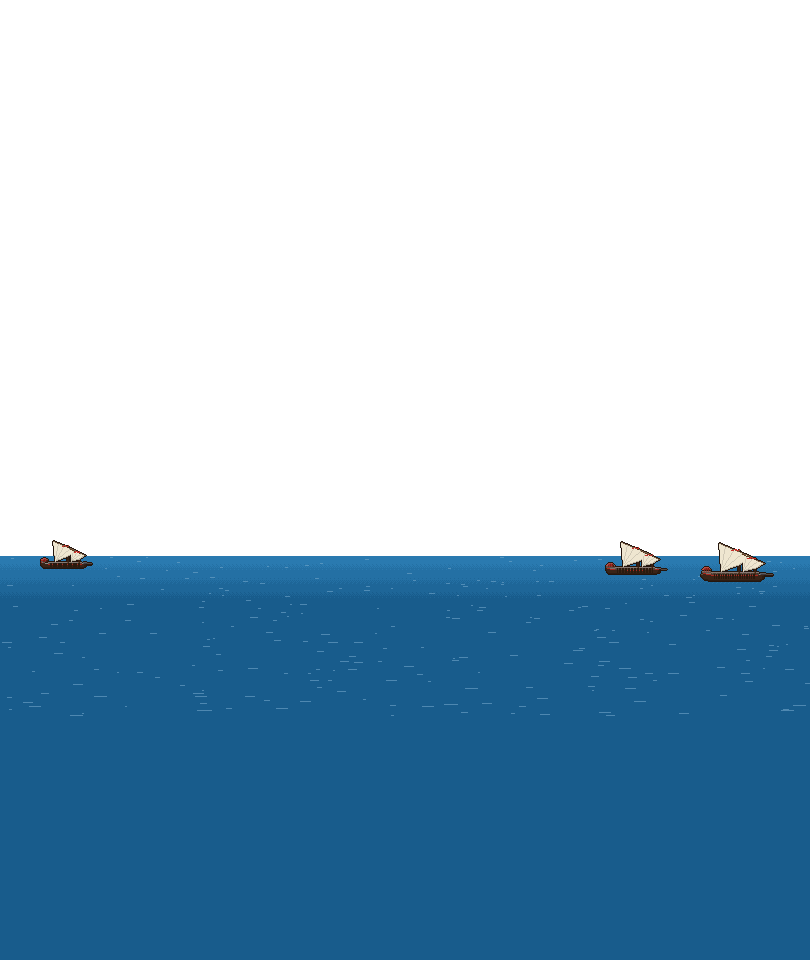
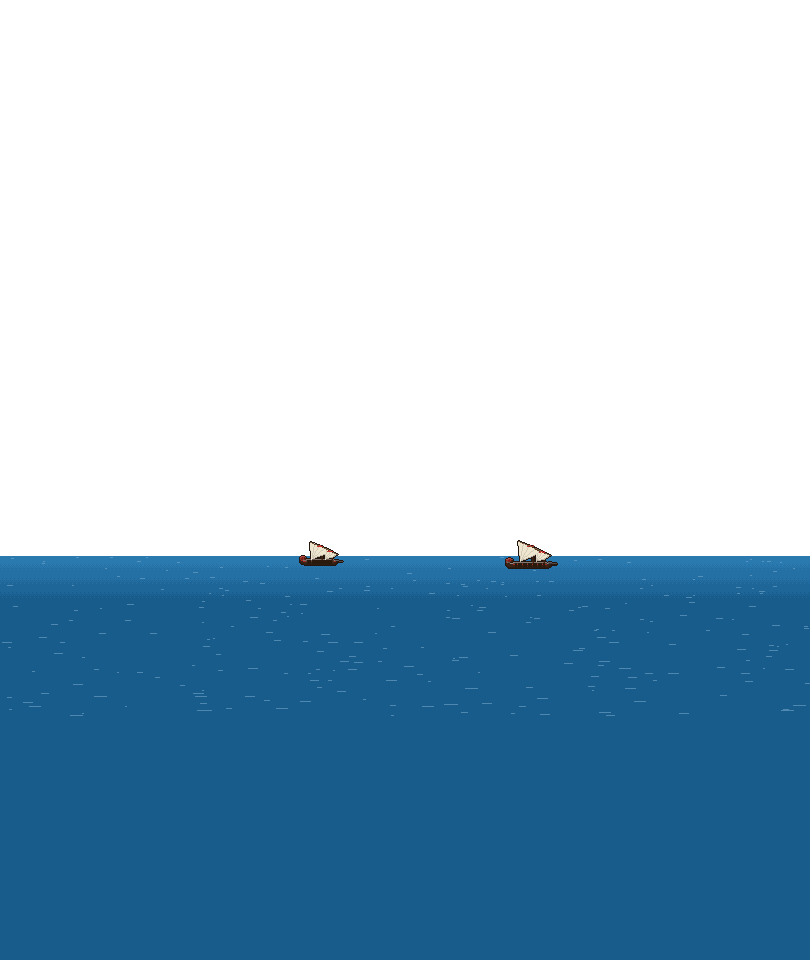
Gece vardiyası: ara çıktılar
Claude-Session: https://claude.ai/code/session_01XLxygqyFFVQPS5MtEC993Y

diff --git a/video/piksel/toulon_1543.py b/video/piksel/toulon_1543.py
@@ -1104,8 +1104,8 @@ def sahne451():
 def sahne452():
     _gok(452, GUN, [(100, 402, 22), (420, 406, 20)], BULUT_GUN)
     _uzak_kiyi(452, None, ("#8aa0b4", "#7c92a8"), ("#8aa0b4", "#7c92a8", "#6e84a0"), D_YAZ, 546, tepe_y=538, kara_kalin=3)
-    _orta_deniz(452, 556, D_YAZ, ekle=lambda img: [kadirga(img, PAY + x, 566 + k * 6, 0.5 + k * 0.1, 1, 0.0, mod="acik",
-                                                          kurek=True, kurekci=False, **OSMANLI) for k, x in enumerate((-70, 500, 600))])
+    _orta_deniz(452, 556, D_YAZ, ekle=lambda img: [kadirga(img, PAY + x, su, s_, 1, 0.0, mod="acik", kurek=True, kurekci=False,
+                                                          **OSMANLI) for x, su, s_ in ((185, 563, 0.42), (395, 566, 0.5))])
     _bos_on(452)
     b = P(452)
     _spr(452, _gemi_sp(452, 0, [(198, b["h"] - 14, 1.7, 1, "acik", OSMANLI, dict(fener=1))], D_YAZ, 556))
@@ -1116,7 +1116,7 @@ def sahne452():
 # ==========================================================================
 def sahne453():
     ic_mekan(453, duvar=("#2a3458", "#34406a", "#425080"), kemer="#1a2038", cini="#c8a040",
-             pencere=("#6a8ab8", "#c8dcf0"), zemin_renk=("#6a5a4a", "#5a4c3e", "#4a3e32"), isik="#f8d080", hali=True)
+             pencere=("#6a8ab8", "#7c9cc8"), zemin_renk=("#6a5a4a", "#5a4c3e", "#4a3e32"), isik="#f8d080", hali=True)
     K = K_(453)
 
     def kare(t, z, i):
@@ -1379,7 +1379,7 @@ def sahne474():
 # ==========================================================================
 def sahne463():
     ic_mekan(463, duvar=("#4a3a2a", "#5a4632", "#6a523c"), kemer="#2a1e14", cini="#8a2a2a",
-             pencere=("#8aa0b8", "#f0e8d0"), zemin_renk=("#6a5a48", "#5a4c3c", "#4c4032"), isik="#f8c060", hali=False)
+             pencere=("#8aa0b8", "#9ab0c4"), zemin_renk=("#6a5a48", "#5a4c3c", "#4c4032"), isik="#f8c060", hali=False)
     K = K_(463)
 
     def kare(t, z, i):

diff --git a/teslimler/gece/ara/piri-reis/6-kalite-gorsel.md b/teslimler/gece/ara/piri-reis/6-kalite-gorsel.md
@@ -1,0 +1,66 @@
+# Haritayı Çizen Adam: görsel kalite kontrol
+
+**İş:** Piri Reis'in haritaları ve idamı (1513-1554), gece vardiyası 6/10 · **Hazırlayan:** 🔴 SKONSTART Kalite Kontrol (görsel)
+**Girdiler:** `5-grafik.md` (sahne planı, 38 sahne), `4-kalite-metin.md` (kartlar). Render kareleri `scratchpad/qc-piri-reis/`: 12 düzenli kare (kare-020s … kare-244s), kontak sayfası ve kare düşmeyen kritik sahnelerden benim render ettiğim 8 ek kare. Kareler `sahne_zaman.py` zamanlarıyla, sahnenin ortasından alındı:
+
+| Ek kare | Sahne | Kare no |
+|---|---|---|
+| ek-kapak.png | kapak | 60 |
+| ek-345-maskat.png | 345 Maskat kalesi | 6326 |
+| ek-346-hurmuz.png | 346 Hürmüz | 6691 |
+| ek-350-ucgemi.png | 350 üç gemiyle dönüş, donanma geride | 7806 |
+| ek-351-ferman.png | 351 Kahire, fermanı okuyan çavuş | 8175 |
+| ek-356-firtina.png | 356 Seydi Ali'nin fırtınası | 10016 |
+| ek-364-mektup.png | 364 1960, Ohlmeyer'in mektubu | 12871 |
+| ek-349-kapanis.png | kapanış, 349 Basra'da kalan donanma | 15859 |
+
+Hapgood sahnesi (366) ayrı render edilmedi. 8 karelik sınır doldu; sahne kare-224s'teki geçişte görünüyor.
+
+## Karar: UYGUN DEĞİL (revize_birimi: grafiker)
+
+Fizik ve yazı tarafı temiz:
+- 20 karenin hiçbirinde havada duran nesne yok.
+- Bütün kartlar okunuyor.
+- Türkçe harfler doğru (ğ, ı, İ, ş, ç, ö, ü ve "şikâyet"teki â).
+- Kapak temiz.
+
+Tek zorunlu düzeltme 1929 sahnesindeki dönem hatası. Sahibin 03:40 notu açık: "tek bir hatalı kare bile kabul değil". Bu kare yazının "1929" dediği anda yanlış bir dönem silüeti gösteriyor.
+
+## Zorunlu düzeltmeler (kare | yer | sorun | düzeltme)
+
+| Kare | Yer | Sorun | Düzeltme |
+|---|---|---|---|
+| kare-183s.png (sahne 359; kod gereği 360 da) | Kadrajın sol yarısı, iki figürün başı (y ≈ 750-860) | **Koordinatörün sorusuna cevabım: şapka *fikri* doğru, *çizimi* yanlış.** 1925 Şapka Kanunu'ndan sonra 1929 İstanbul'unda Halil Edhem'in ve bir Alman bilim insanının fötr şapka giymesi dönemine uygun. Ama çizilen şey fötr değil. Uzun, düz tepeli silindirik bir taç ve çok geniş, dümdüz bir kenar var. Bu silüet 17. yüzyıl püriten şapkası ya da Hasidik/Amiş şapkası gibi okunuyor, 1920'lerin fötrü gibi değil. İzleyici "neden bu şapka" diye yorum yazar. `sapka` başlığı Çelebi işindeki 1720 Fransızları için çizilmişti; o dönemde doğru, burada yanlış. | `piri_reis.py` içinde 1929-1960 kişileri için ayrı bir **fötr** başlığı çiz: alçak, yuvarlatılmış bir taç, tepede ortadan çökük bir çizgi ve tutam, koyu bir şapka bandı, daha dar ve hafif kıvrık bir kenar. Kenar genişliği başın yaklaşık 1,3 katı olsun, şimdiki gibi 2 katı değil. Kullanılacak yerler: `EDHEM` (tanım 56. satır; 359 ve 360'ta kullanılıyor) ve 359'daki ikinci figür (1587. satır). Ya bu fötrü ciz.py'ye yeni bir `bas` seçeneği olarak ekle ya da piri_reis.py'de yerel bir başlık olarak yaz. Çelebi ve Cem Sultan dosyalarındaki `sapka`ya dokunma. Sonra 359'u ve 360'ı yeniden üret; `taban_denetimi` ile yazı bandı denetimini tekrar çalıştır (fötr daha alçak olduğu için bant sorunu çıkmaz). |
+
+## İyileştirme önerileri
+
+Bunlar reddetme nedeni değil. Grafiker 359'a zaten döneceği için 1-3'ün aynı turda yapılmasını öneririm.
+
+1. **kare-183s, Babüsselam (koordinatörün ikinci sorusu: "Avrupa şatosu gibi mi?").**
+   - Kısmen öyle. Çizimin ana hatları doğru: Babüsselam'ın gerçekte de iki sekizgen, külahlı kulesi ve mazgallı yan duvarları var. Bu kapı zaten "şatoya benzer" diye bilinir. Çizimde sorun, yapının bembeyaz sıva, küçük ve süssüz olması; bu yüzden bir masal şatosu gibi okunuyor.
+   - Kapı kemeri yaklaşık 95 px, kuleler adamların çenesinin altında kalıyor. "İki kişi içeri yürür" anı için kapı fazla oyuncak gibi.
+   - Öneri: kapının üstüne geniş, koyu ve ahşap altlı Osmanlı saçağını belirgin çiz, kemerin üstüne yeşil-altın bir yazı/tuğra panosu koy, taş rengini kırık beyaz ya da açık griye çek ve kapıyı 1,3-1,5 kat büyüt (kuleler adamların başını geçsin).
+2. **Karakter sürekliliği (kod okumasından; 360 render edilmedi).** 359'daki soldaki adam kahverengi paltolu, şapkalı ve sakalsız (1587. satır). 360'taki `DEISSMANN` ise takkeli/açık başlı ve ak sakallı. İkisi aynı kişiyse izleyici bağı kuramaz. 359'daki ikinci figür `DEISSMANN` renklerini ve ak sakalı alsın, fötrünü elinde ya da başında taşısın.
+3. **kare-203s (362, Kahle).** Başlık beyaz bantlı, siperli bir kaptan kasketi gibi okunuyor (kodda `takke`). 364'teki Ohlmeyer'in kasketiyle karışıyor ve bir profesörün oda içinde başında olması tuhaf. Kahle'yi açık başlı (saç) ya da fötrü elinde çiz.
+4. **ek-364-mektup (364, Ohlmeyer).**
+   - Plan "lambanın altında mektup yazar" diyor. Karede ayakta, elinde kâğıt tutuyor; lamba kadrajın öbür ucunda, sehpa boş. Kart ("mektup yazıyor:") kabaca karşılanıyor ama sahne daha güçlü olabilir: Ohlmeyer sehpanın başında, lamba yanında.
+   - Kasket bugünkü bir beyzbol şapkası gibi okunuyor. 1960 ABD Hava Kuvvetleri subay kasketi yüksek taçlı ve siperlidir; tacı yükselt, siperi daralt.
+5. **kare-349 kapanış (ek-349-kapanis) ve 354.**
+   - Karşı kıyıdaki "alçak hurmalık şeridi" (y ≈ 420-510) eşit aralıklı, kara direkler ya da babalar gibi okunuyor, hurma gibi değil.
+   - Hâlâ kartın ikinci satırının ("Basra'da bırakır mıydınız?") arkasına giriyor. Yazı okunuyor, bu yüzden zorunlu değil. Ama videonun son sorusu bu karede.
+   - Öneri: hurmaları seyrek ve düzensiz aralıkla diz, yaprakları yelpaze gibi açılsın; ya da şeridi tamamen yazı bandının altına (y > 560) indir.
+6. **kare-101s (344 Aden), ek-345-maskat, kare-163s.** Uzak plandaki tepelerde iğne yapraklı ağaç (çam) silüetleri var. Aden'in krater dağları ve Umman kıyısı çıplak, volkanik ve çöl. Uzak plan bu sahnelerde ağaçsız, kızıl-kahve kayalık sırtlara çevrilsin. Coğrafi bir ayrıntı ama "hata istemiyorum" notuna göre düzeltmeye değer.
+7. **ek-345-maskat ve ek-346-hurmuz.** Kale iki sahnede de kadraj kenarında kesiliyor: Maskat'ta sağda, Hürmüz'de solda ve kapısı yarım. Soldaki en ön gemi de Maskat'ta kenarda yarım kalıyor. Filo için kabul edilebilir bir kadraj. Kale ise kartın öznesi; kaleyi 30-40 px içeri al ki iki kulesi ve kapısı tam görünsün.
+8. **kare-020s, kare-081s, kare-163s, sağ üst köşe (x ≈ 1050-1080, y ≈ 60-150).** Kenarda yarısı kesilmiş gri, yuvarlak bir gök cismi ya da bulut var; render hatası gibi duruyor. İçeri al ya da kaldır. kare-020s'te sol kenarda (y ≈ 560) yarım kalmış koyu bir uzak gemi parçası da var.
+9. **kare-020s ve kare-081s.** Uzak kale (332) ve uzak gemi yelkeni (341), kartın 2. ve 3. satırlarının arkasında kalıyor. Yazı okunuyor; onaylı Çelebi işindeki gibi, grafikerin de açık bıraktığı nokta. Kabul ediyorum. Kale bir tık sağa ya da aşağı alınırsa daha temiz olur.
+10. **kare-040s (335).** Kart "Piri masada çizer" anında ama Piri'nin eli parşömene değmiyor; masanın yanında oturuyor. Kolu masaya uzansın.
+
+## Değerlendirme (sahibe gösterilecek)
+
+Piri Reis videosu görsel olarak sağlam:
+- 20 karenin hepsinde figürler ve nesneler zemine oturuyor; hiçbir şey havada değil.
+- Kartların hepsi okunuyor, Türkçe harfler kusursuz.
+- 64-bit piksel tarzı, kişilerin renk kodu (deniz yeşili Piri, kırmızı çavuş) ve Kahire'de açılıp kapanan kurgu baştan sona tutarlı.
+- Basra'da kalan donanma, fırtına ve parşömen yakın planları hikâyeyi güçlü taşıyor.
+
+Tek bir şeyi geri çeviriyorum: 1929 Topkapı sahnesinde Halil Edhem ve yanındaki adamın şapkası. Şapka takmaları dönemine uygun, ama çizilen silüet 1920'lerin fötrü değil, püriten ya da Amiş şapkası gibi okunuyor. Grafiker bunu fötrle değiştirip aynı turda Babüsselam'ı daha Osmanlı ve daha büyük çizdiğinde video teslime hazır olacak.
